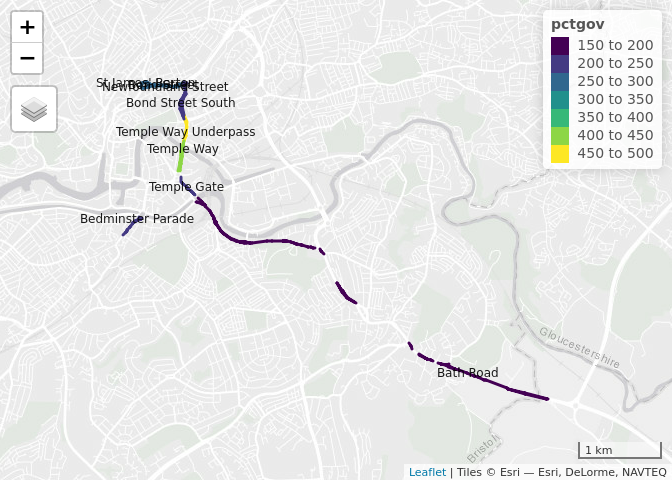
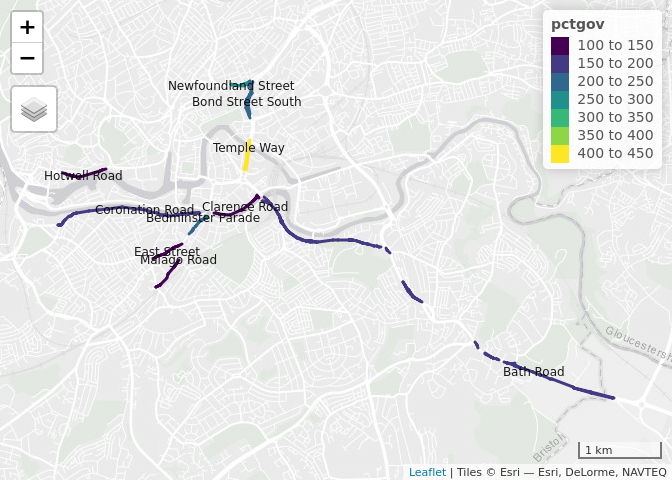
Update results for Bristol

diff --git a/README.md b/README.md
@@ -139,14 +139,15 @@ The top 10 roads:
 
 ![](README_files/figure-gfm/unnamed-chunk-11-1.png)<!-- -->
 
-| name                 | ref   | road\_type | cycling\_potential | length\_m |
-| :------------------- | :---- | :--------- | -----------------: | --------: |
-| Temple Way Underpass | A4044 | trunk      |                471 |       691 |
-| Temple Way           | A4044 | trunk      |                432 |       708 |
-| St James’ Barton     | A38   | trunk      |                276 |       264 |
-| Bond Street          | A4044 | trunk      |                268 |       442 |
-| Newfoundland Street  | A4044 | trunk      |                255 |       496 |
-| Bond Street South    | A4044 | trunk      |                246 |      1039 |
-| Bedminster Parade    | A38   | trunk      |                234 |       401 |
-| Temple Gate          | A4    | trunk      |                206 |       279 |
-| Bath Road            | A4    | trunk      |                191 |      6227 |
+| name                | ref   | road\_type   | cycling\_potential | length\_m |
+| :------------------ | :---- | :----------- | -----------------: | --------: |
+| Temple Way          | A4044 | trunk        |                432 |       708 |
+| Newfoundland Street | A4044 | trunk        |                255 |       496 |
+| Bond Street South   | A4044 | trunk        |                246 |      1039 |
+| Bedminster Parade   | A38   | trunk        |                234 |       401 |
+| Bath Road           | A4    | trunk        |                191 |      6227 |
+| Coronation Road     | A370  | trunk        |                179 |      2033 |
+| Clarence Road       | A370  | trunk        |                124 |       666 |
+| Malago Road         | A38   | trunk        |                123 |       478 |
+| Hotwell Road        | A4    | primary      |                117 |       533 |
+| East Street         |       | unclassified |                111 |       392 |
